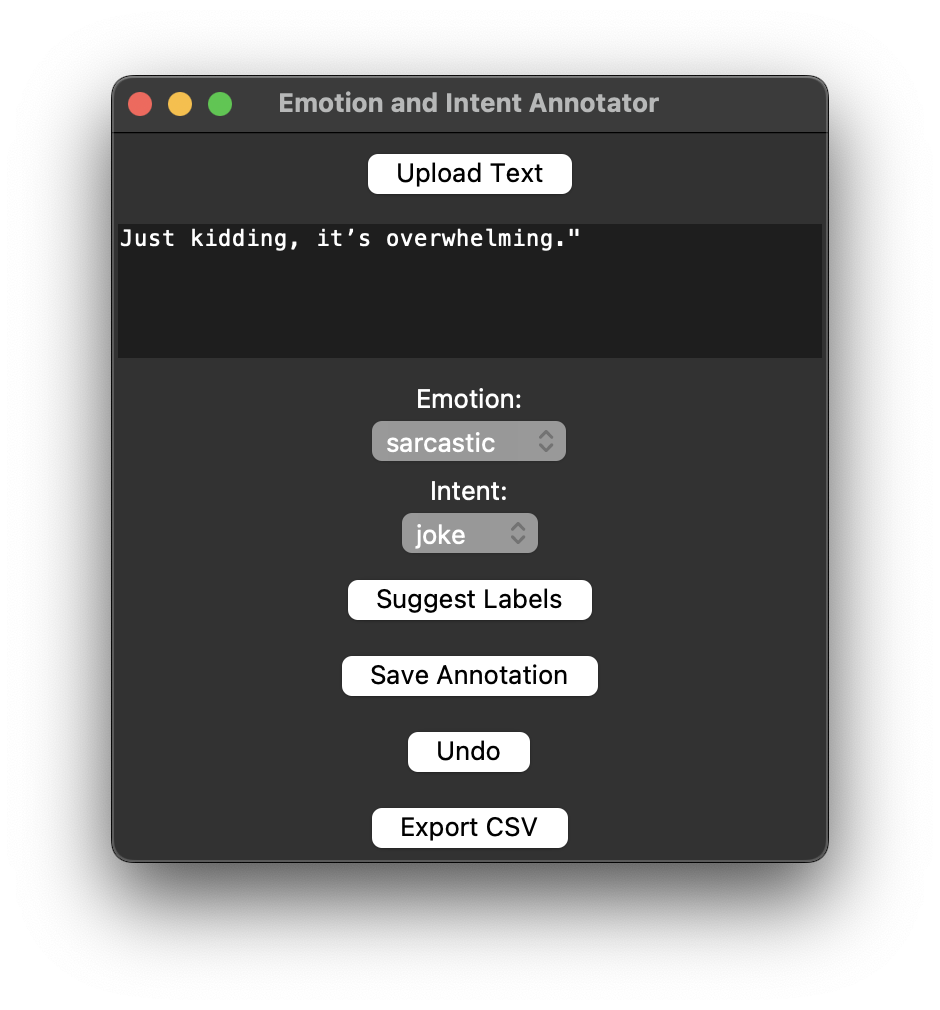
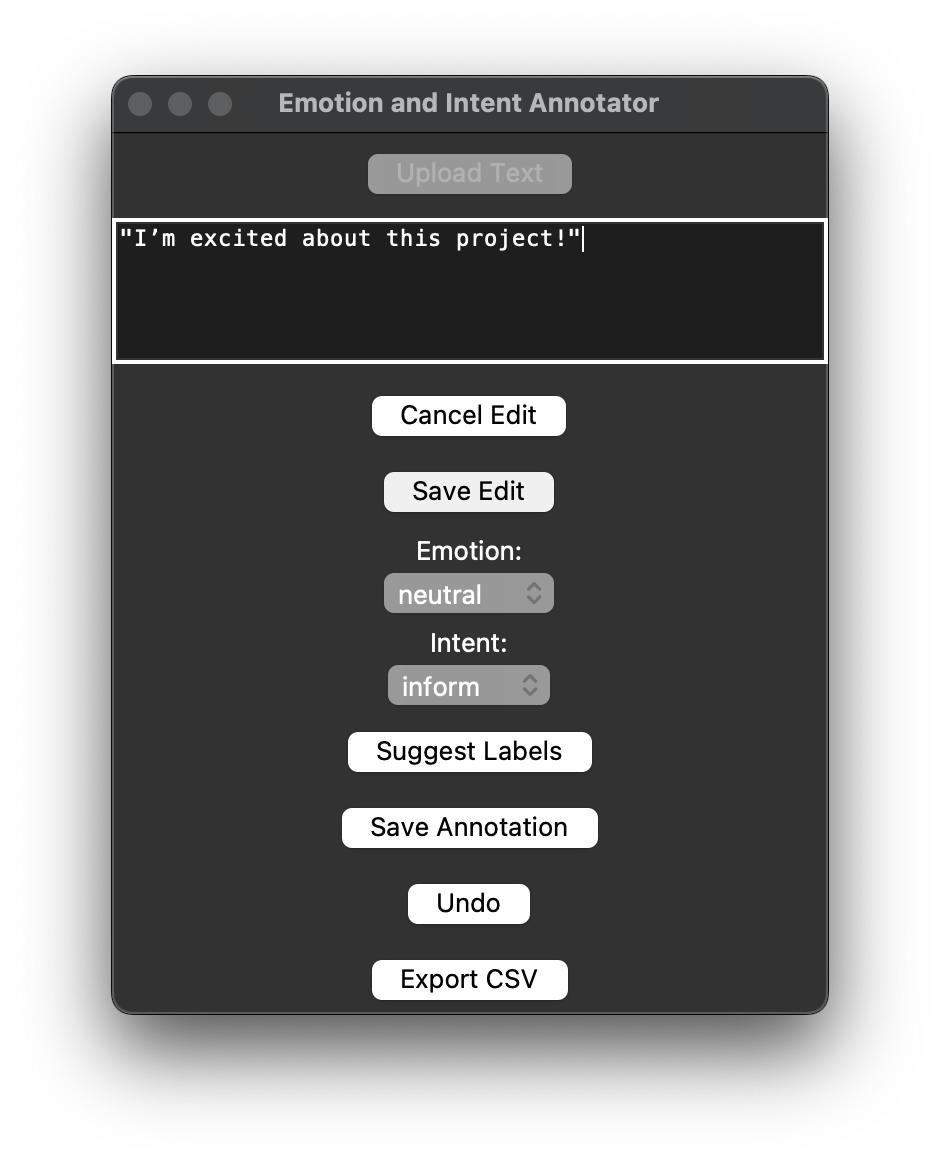
Updated README to include GUI manual edit of text segments and updated screenshots to include upgraded screenshots that show edit capabilities.

Changed region(s): [[0.0926, 0.3069, 0.8947, 0.9208], [0.0926, 0.0614, 0.8947, 0.3069]]

diff --git a/EmotionIntentAnnotator/README.md b/EmotionIntentAnnotator/README.md
@@ -1,17 +1,20 @@
 # ImageAnnotationToolV2
 ### Emotion and Intent Annotator 
-A multi-modal annotation platform for labeling emotions and intents in text, with planned support for audio and video. This tool uses AI to suggest emotion labels and provides a user-friendly GUI for manual annotation, designed for research and data preparation in NLP and multi-modal AI.
+A multi-modal annotation platform for labeling emotions and intents in text, with planned support for audio and video. This tool uses AI to suggest emotion and intent labels and provides a user-friendly GUI for annotation, designed for research and data preparation in NLP and multi-modal AI.
 
 ### Overview
 - Labels text emotion and intent with a user-friendly GUI.
 - Supports undoing annotations and exporting to CSV.
 - Stores texts and annotations in SQLite with robust constraints.
 
-### Features
-- **Text Annotation**: Upload text files, segment into sentences, and annotate with emotions (happy, sad, sarcastic, angry, neutral) and intents (inform, persuade, joke, complain).
-- **AI Suggestions**: Emotion labels suggested by DistilRoBERTa for efficient annotation.
-- **Database Storage**: Annotations saved to SQLite with media metadata.
-- **GUI Features**: Undo annotations, export to CSV for analysis.
+### GUI Features
+- Upload text files and segment them automatically.
+- Edit text segments directly in the GUI with save functionality.
+- Manual selection of emotions and intents.
+- AI suggested emotions (happy, sad, sarcastic, angry, neutral) and intents (inform, persuade, joke, complain) by DistilRoBERTa for efficient annotation.
+- Save annotations to a SQLite database.
+- Undo annotations.
+- Export annotations to annotations_export.csv with media_id, segment, emotion, intent, with success/warning popups.
 - **Future Plans**: Audio/video annotation, explainability (e.g., SHAP visualizations).
 
 ### Screenshots
@@ -53,13 +56,14 @@ A multi-modal annotation platform for labeling emotions and intents in text, wit
 ### Run the Tool (Both Options):
 1. `python3 src/setup_db.py` to initialize the database.
 2. `python3 -m src.annotate_emotions` to open a GUI to:
-    1. Upload Text:
+    1. Upload and Edit Text:
        - Click "Upload Text", select a .txt file (e.g., data/sample_text.txt), and click "Open".
        - Text is segmented into sentences (e.g., "I'm thrilled about this project! Just kidding, it's overwhelming." -> two segments).
+       - Manually edit segmens (as desired).   
     2. Annotate:
        - View each sentence in the GUI.
        - Click "Suggest Labels" for AI-predicted emotions.
-       - Select emotion and intent from dropdowns.
+       - Select Emotion and Intent from dropdowns.
        - Click "Save Annotation" to store in the database.
     3. Manage Annotations:
        - Use "Undo" to revert the last annotation.
